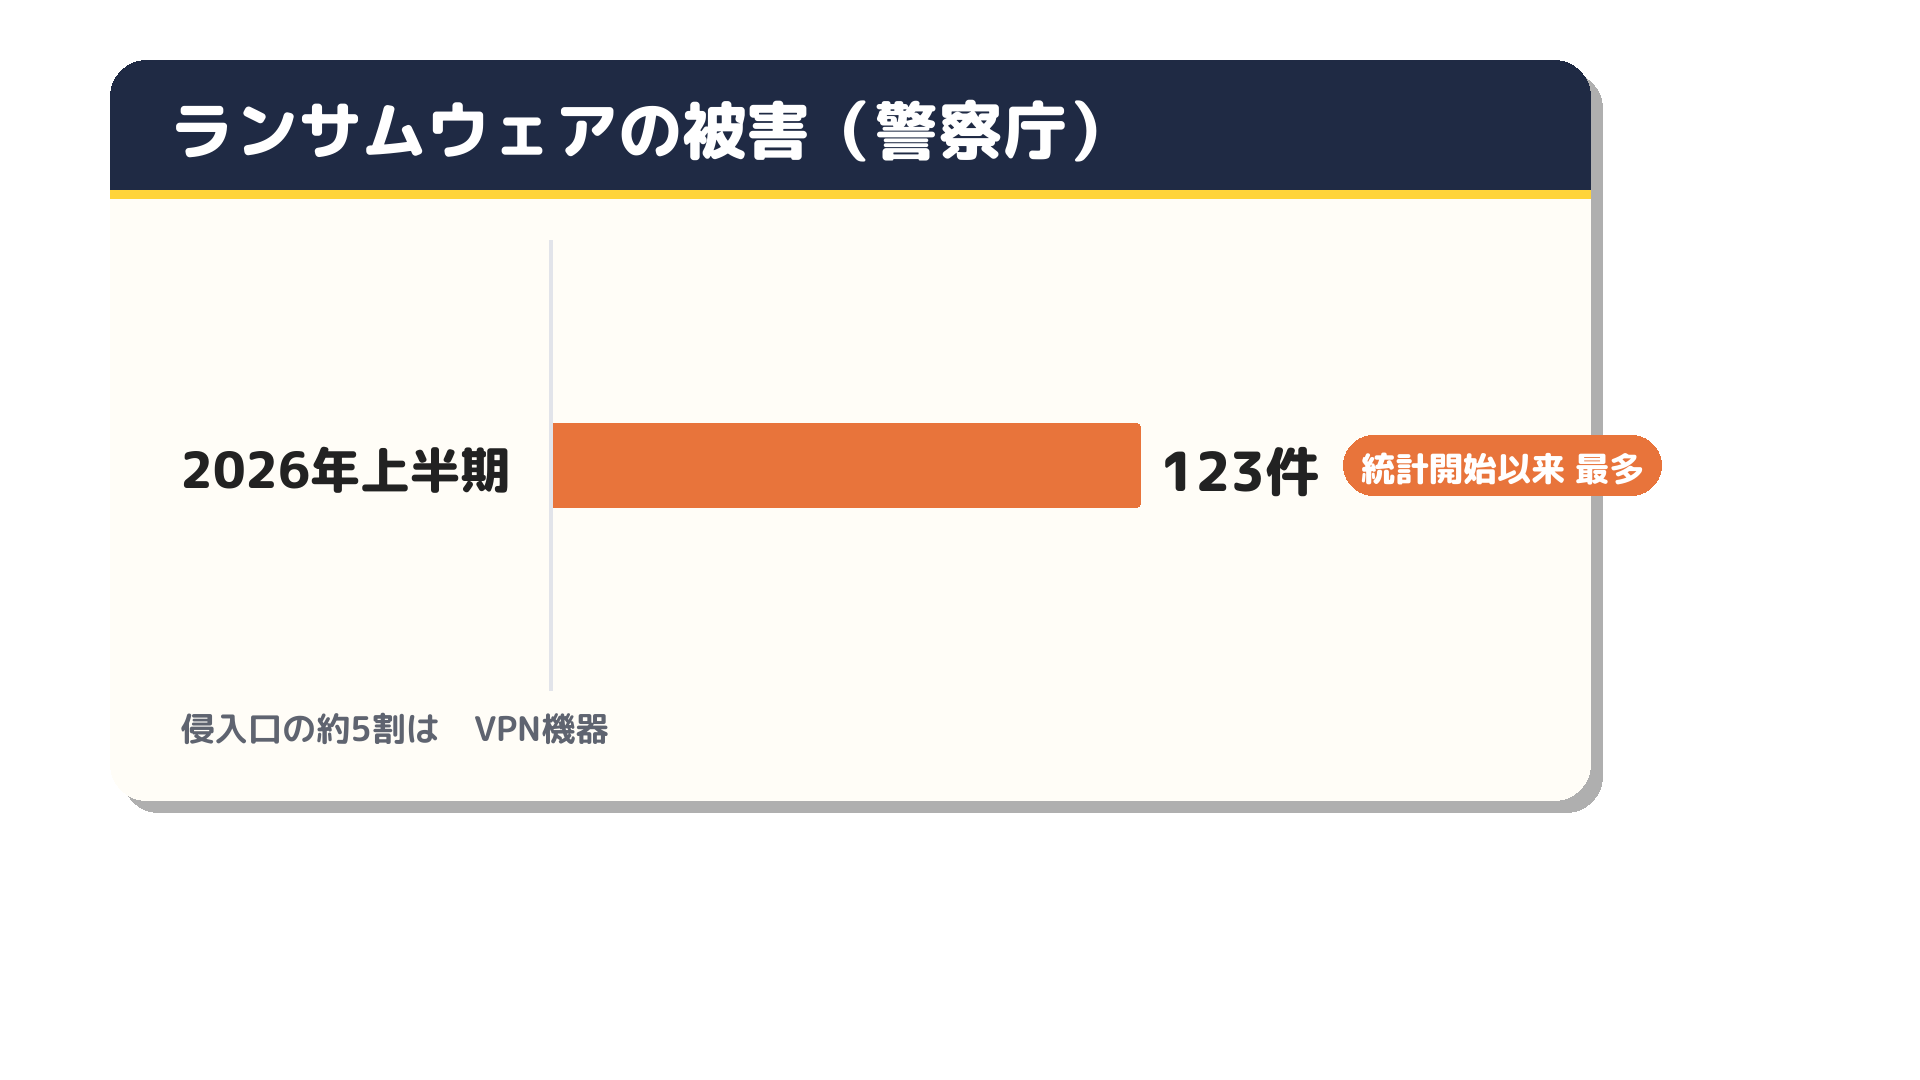
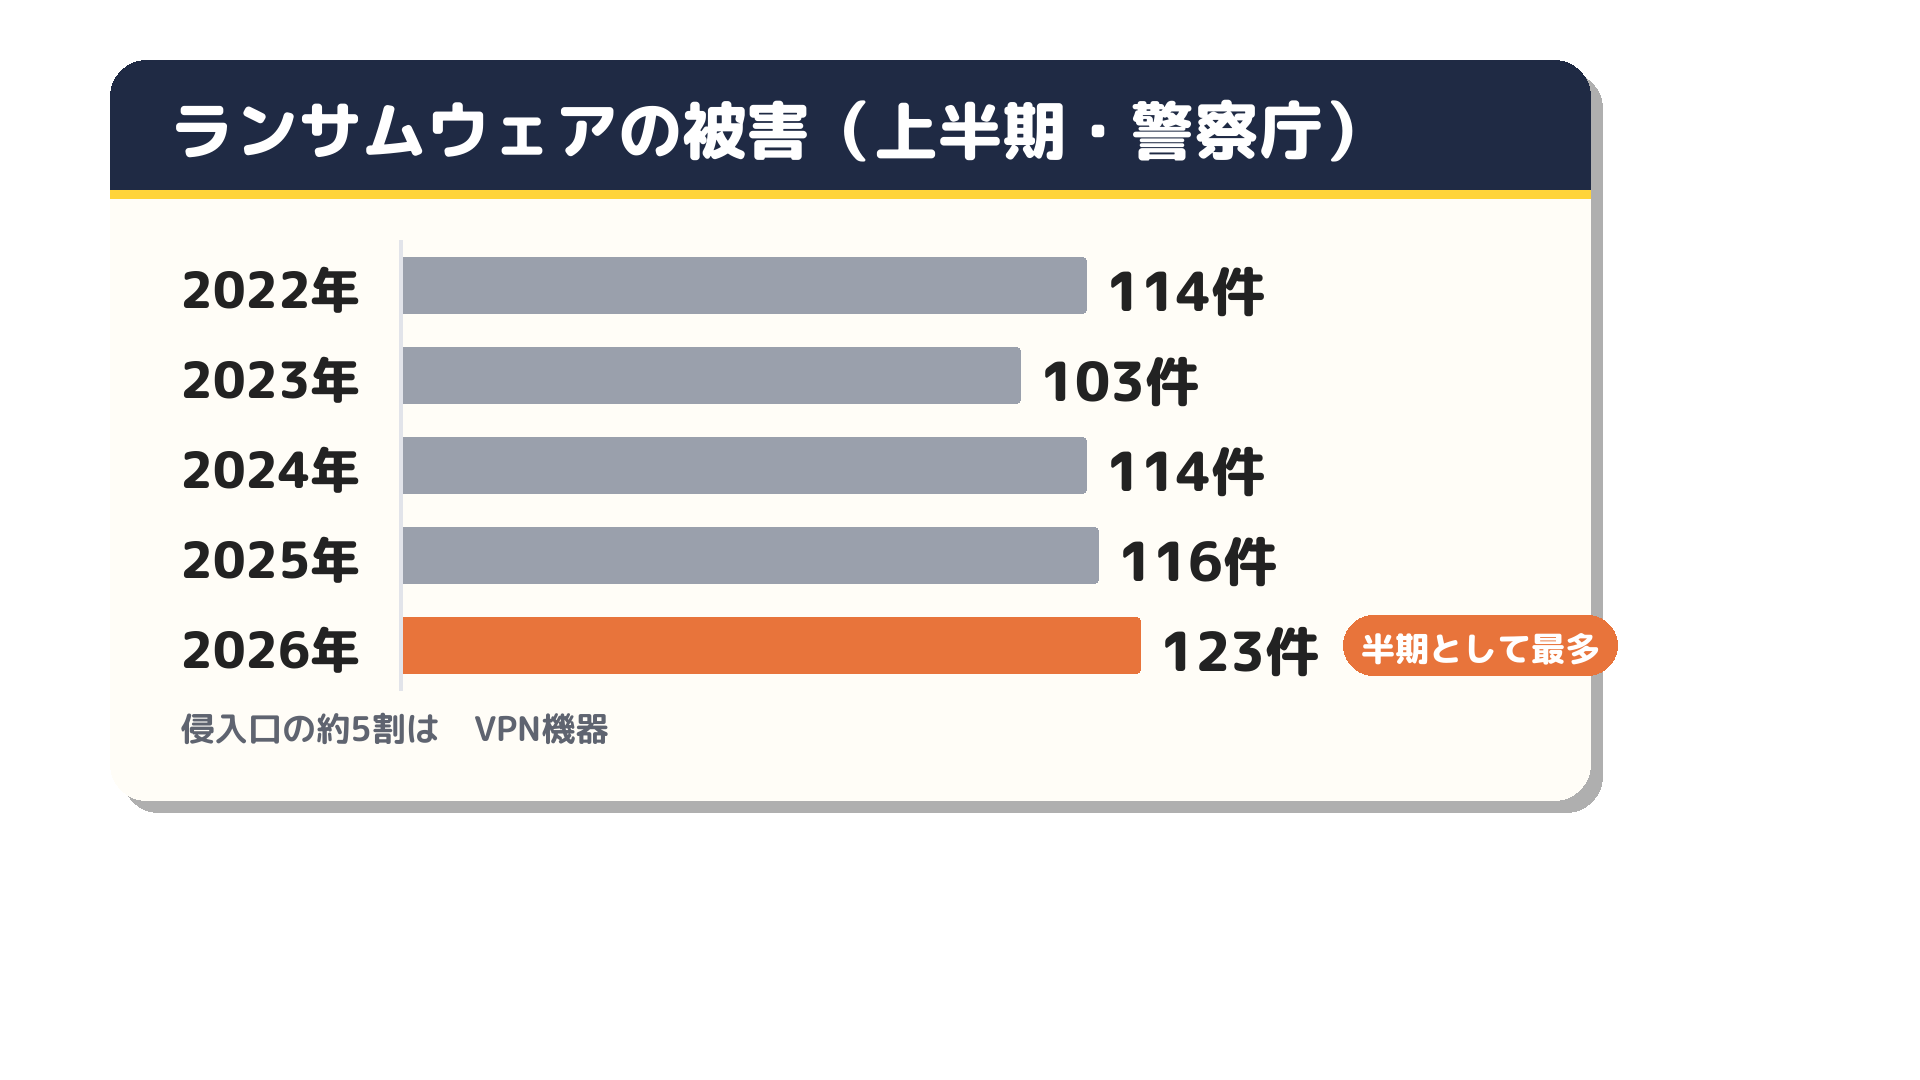
catmeme: 4本目 ランサムウェアのグラフを2022〜2026年の比較に、説明モードを画面そのまま＋下の帯に、手で改行した行は折り返さない
Claude-Session: https://claude.ai/code/session_011g9CsrfFD5YswfNSvNDW39

Changed region(s): [[0.0938, 0.2139, 0.875, 0.6417], [0.4375, 0.0917, 0.7188, 0.1528], [0.125, 0.4278, 0.1562, 0.4583]]

diff --git a/catmeme/cuts_04_leak.py b/catmeme/cuts_04_leak.py
@@ -177,7 +177,7 @@ def cuts_all():
         ss("人間のうっかりは\nどこにでもあるからな", "bg25_office_desk", se="taiko_kaka"),
         # ---- 3. なぜ今 連発しているのか ----
         chap("なんで今　こんなに連発？", se="quiz_question_02"),
-        dia("e04_ransom", "ランサムウェア被害は　2026年上半期123件で　統計開始以来の最多（警察庁）", right=S,
+        dia("e04_ransom", "2026年上半期は123件　前の年より増えて　半期として過去最多（警察庁）", right=S,
             se="doon_heavy"),
         dia("e04_ransom", "ランサムウェアの侵入口は　約5割がVPN機器", right=S, se="pc_warning"),
         ss("ランサムウェアは\n“貸し出し”もされてて\n技術がなくても攻撃できる", se="cursor_move_01"),
@@ -197,7 +197,7 @@ def cuts_all():
         dia("e04b_big", "法律が変わり「漏えいのおそれ」でも報告が義務に　→　発表が増えて見える面も", right=S,
             se="pinpoon_note"),
         nn("大きいのが増えて\n目立ってるってことか", se="pikon"),
-        chap("ネットでは　こんな声も…\n（根拠は確認されていません）", se="whoosh_shu", dur=2.2),
+        chap("ネットでは　こんな声も…\n（根拠は未確認）", se="whoosh_shu", dur=2.2),
         net("@react", "AIで誰でも\n大量に攻撃\nできるように\nなったから", "ネットの声", se="pi"),
         net("@react", "日本企業は\nセキュリティに\nお金をかけない", "ネットの声", se="boon"),
         net("@react", "古いシステムと\nITに弱い経営陣", "ネットの声", se="kote"),

diff --git a/catmeme/render.py b/catmeme/render.py
@@ -500,16 +500,10 @@ class CutRenderer:
             amp = 18 * (1 - t / 0.35)
             dx, dy = amp * np.sin(t * 90), amp * np.cos(t * 70)
             out = cv2.warpAffine(out, np.float32([[1, 0, dx], [0, 1, dy]]), (W, H), borderMode=cv2.BORDER_REPLICATE)
-        if self.explain is not None:   # 説明モード：灰色の小窓＋黒地に説明文
-            g = cv2.cvtColor(out, cv2.COLOR_BGR2GRAY)
-            g = np.repeat(g[..., None], 3, 2)
-            sc = 0.55 if t >= 0.18 else 1.0 - 0.45 * ease_out(t / 0.18)
-            sw, sh = int(W * sc), int(H * sc)
-            small = cv2.resize(g, (sw, sh), interpolation=cv2.INTER_AREA)
-            out = np.zeros((H, W, 3), np.float32)
-            y0 = int(40 * (1 - sc) / 0.45) if sc < 1 else 0
-            out[y0:y0 + sh, (W - sw) // 2:(W - sw) // 2 + sw] = small
-            if t >= 0.18:
+        if self.explain is not None:   # 説明モード：画面はそのまま、下に半透明の黒い帯を敷いて説明文
+            k = min(1.0, t / 0.15)
+            out[680:] *= 1 - 0.62 * k
+            if t >= 0.1:
                 ei, ea = self.explain
                 over(out, ei, ea, 0, 0)
         return out

diff --git a/catmeme/make_parts_04_leak.py b/catmeme/make_parts_04_leak.py
@@ -65,8 +65,12 @@ ITEMS = {
         ("脆弱性", "壊れた\n裏口の鍵"),
         ("ランサム\nウェア", "データを人質に\n身代金"),
     ], hsize=58, ssize=46),
-    "e04_ransom": P.bars("ランサムウェアの被害（警察庁）", [
-        ("2026年上半期", 123, True, "統計開始以来 最多"),
+    "e04_ransom": P.bars("ランサムウェアの被害（上半期・警察庁）", [
+        ("2022年", 114, False, ""),
+        ("2023年", 103, False, ""),
+        ("2024年", 114, False, ""),
+        ("2025年", 116, False, ""),
+        ("2026年", 123, True, "半期として最多"),
     ], unit="件", note="侵入口の約5割は　VPN機器"),
     "e04b_big": P.bars("上場企業の漏えい（東京商工リサーチ）", [
         ("100万人超の大型（前の年）", 2, False, ""),

diff --git a/catmeme/parts.py b/catmeme/parts.py
@@ -383,7 +383,7 @@ def big_text(text, box, max_size=150, min_size=64, max_lines=3, gap=1.18, fill=W
         for para in text.split("\n"):
             lines += wrap_nice(d, para, f, x1 - x0)
         fits_w = max(text_w(d, ln, f) for ln in lines) <= x1 - x0
-        if "\n" in text and len(lines) > text.count("\n") + 1 and size > min_size + 30:
+        if "\n" in text and len(lines) > text.count("\n") + 1 and size > min_size:
             size -= 6   # 手で改行した行は、それ以上折り返さず文字を小さくして1行に収める
             continue
         if (len(lines) <= max_lines and fits_w and size * gap * len(lines) <= y1 - y0) or size <= min_size:

diff --git a/catmeme/research/leak_20261006_brief.md b/catmeme/research/leak_20261006_brief.md
@@ -40,7 +40,7 @@
 
 ### 3. なぜ今、連発しているのか（事実 → 憶測の順。憶測は必ず「〜という声も」と明示）
 事実・統計
-- ランサムウェア被害は 2026年上半期 123件で**統計開始以来の最多**（警察庁）
+- ランサムウェア被害は 2026年上半期 123件で半期として過去最多（2022〜2025年の上半期は 114・103・114・116件）（警察庁）
 - ランサムウェアの侵入経路の**約5割が VPN 機器**（警察庁）
 - 「RaaS（ランサムウェアの貸し出し）」で、技術がなくても攻撃できるようになった
 - IPA の「10大脅威」に**AIの利用をめぐるリスク**が初めて入った
